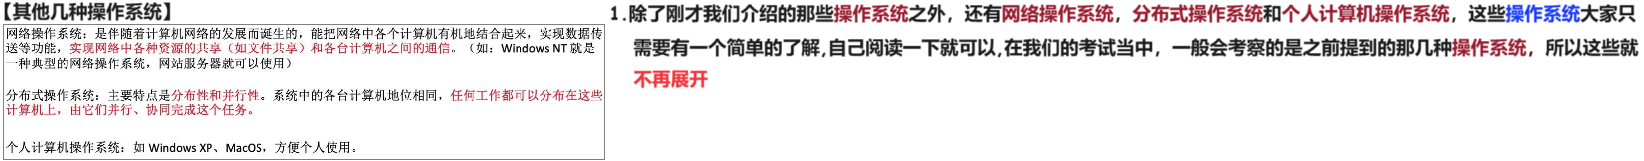
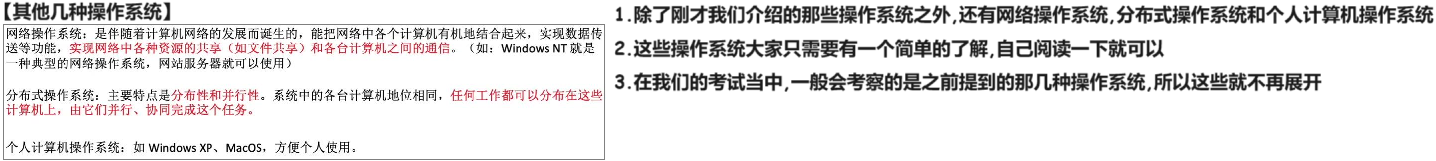
240617

diff --git a/01 初试/01 OS/02 24 25 王道/01 基础/01 计算机系统 概述/02 操作系统 发展 分类 240616/02 消化/02 Doc.md b/01 初试/01 OS/02 24 25 王道/01 基础/01 计算机系统 概述/02 操作系统 发展 分类 240616/02 消化/02 Doc.md
@@ -40,7 +40,7 @@
 
 # 07 其他几种操作系统
 
-<img src="https://cvp.oss-cn-shanghai.aliyuncs.com/picgo/202405190906906.png" alt="image-20240519090623835" style="zoom:50%;" />
+<img src="https://cvp.oss-cn-shanghai.aliyuncs.com/picgo/202406171745523.png" alt="image-20240617174547454" style="zoom:50%;" />
 
 
 
